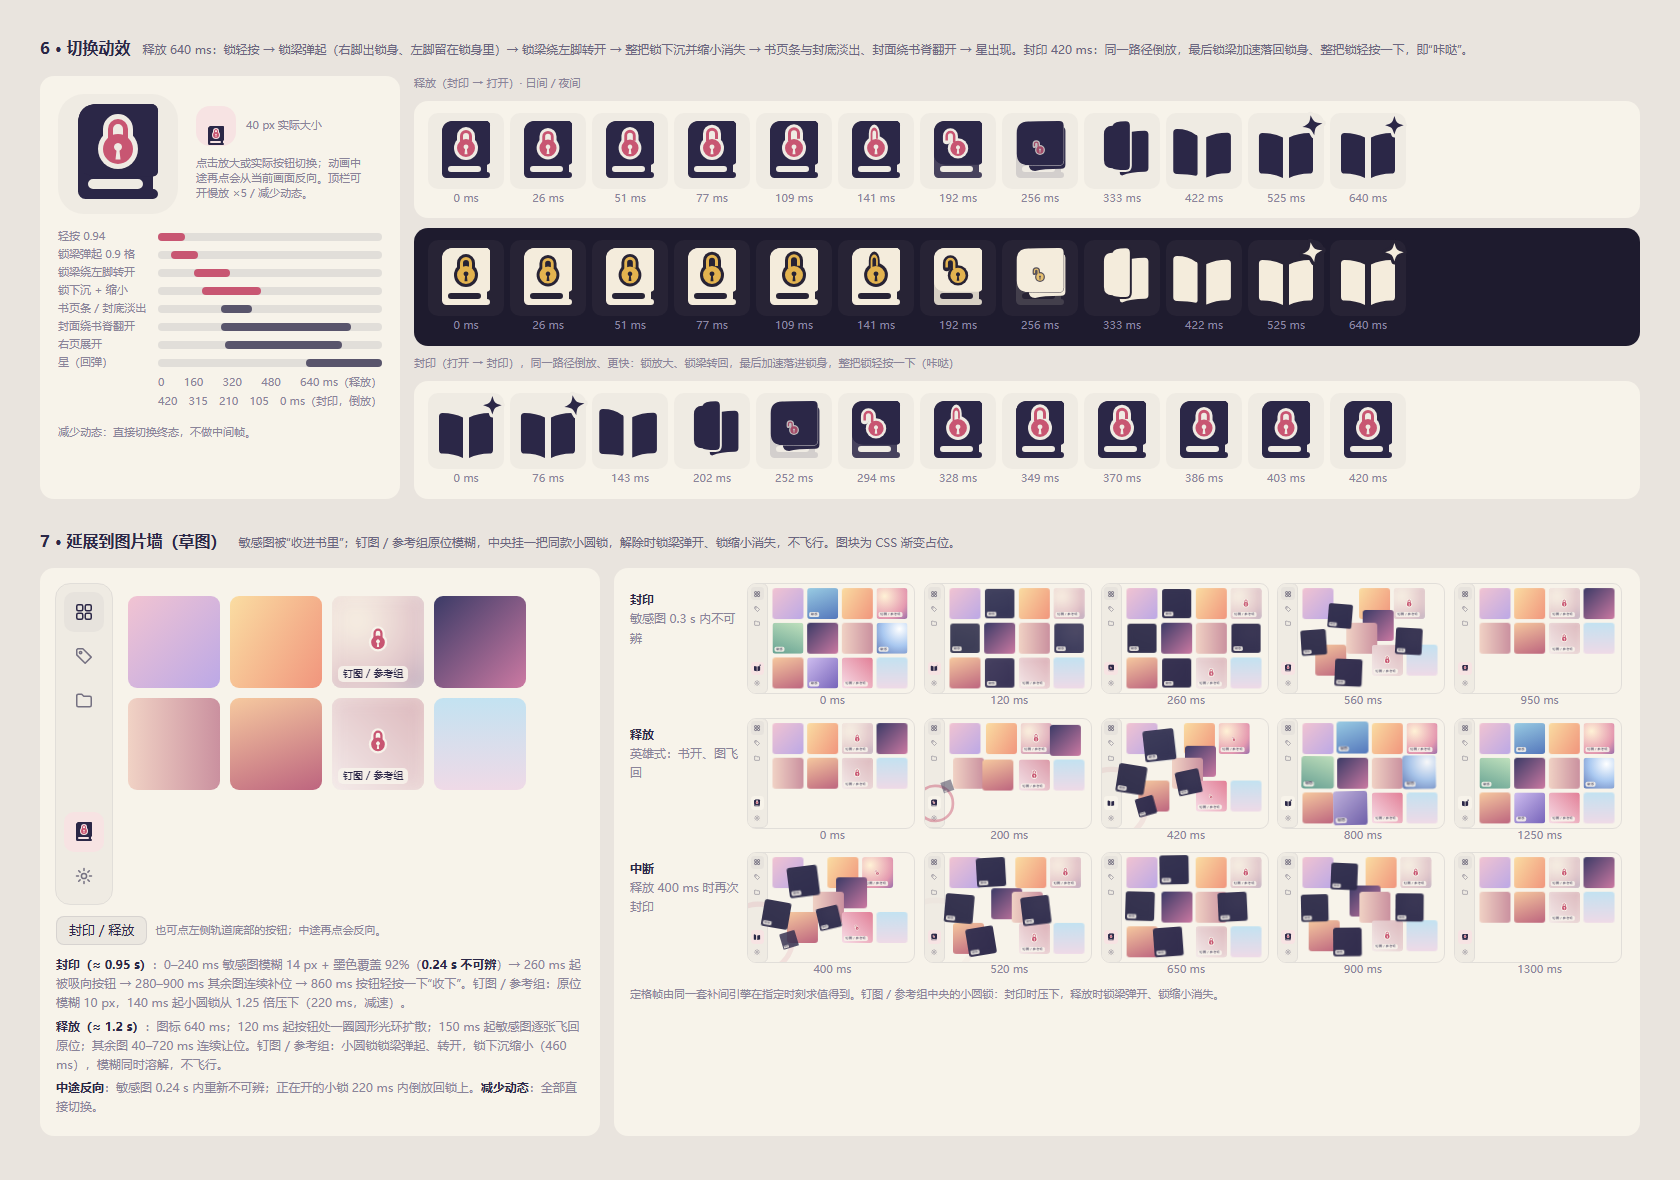
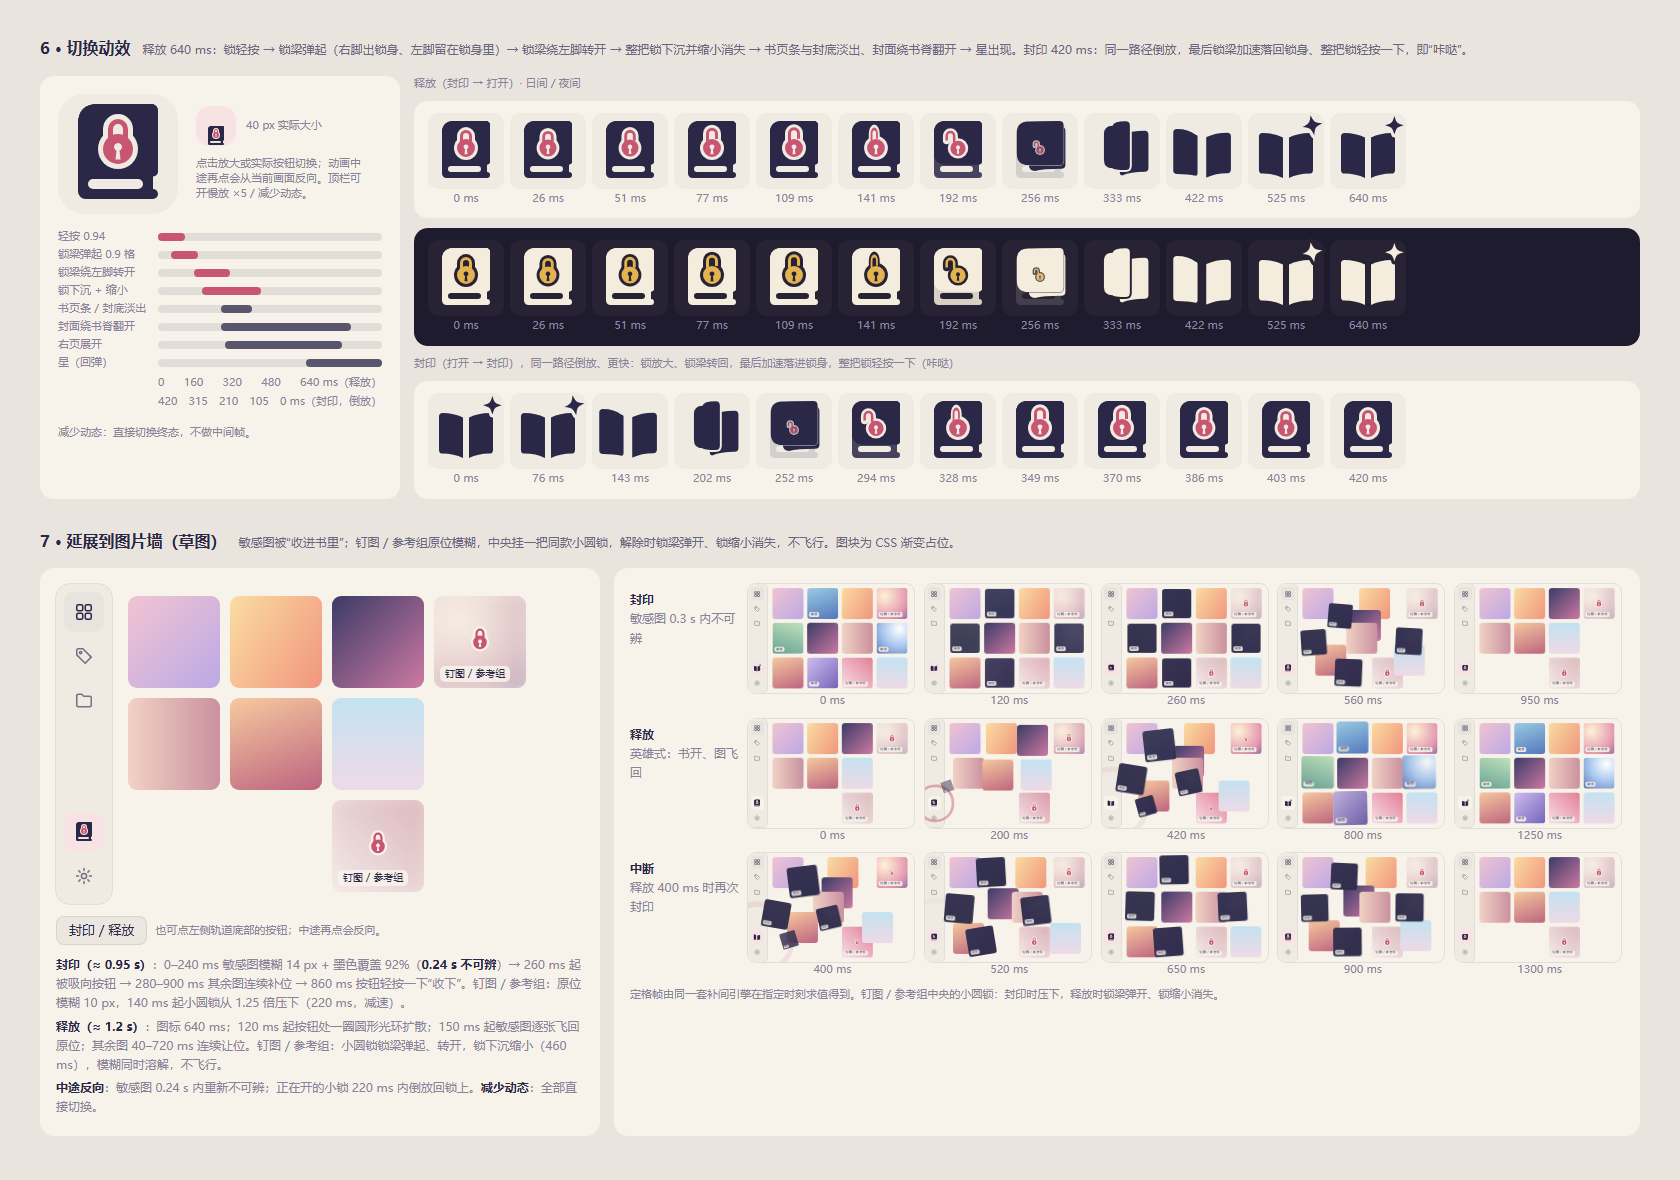
design: keep pinned tiles in place and settle on reduced motion
Address review on #29: pin / reference-group tiles keep their own slot
while the wall reflows around them, and enabling reduced motion
mid-animation jumps the control and every wall tween to the target.

diff --git a/design/seal-book-concepts/round5-a1-round-lock/index.html b/design/seal-book-concepts/round5-a1-round-lock/index.html
@@ -622,6 +622,9 @@ const GRADS = [
 const KINDS = 'nsnrsnnsnsrn'.split('');
 const T = 92, GAP = 10, OX = 72, OY = 12, H = 320, BTN = { x: 28, y: H - 28 - 44 };
 const slot = i => ({ x: OX + (i % 4) * (T + GAP), y: OY + Math.floor(i / 4) * (T + GAP) });
+// pinned / reference-group tiles keep their own slot (blur in place, never move); other tiles reflow around them
+const slotIndex = sealed => { const free = KINDS.map((k, i) => i).filter(i => KINDS[i] !== 'r'); let j = 0;
+  return KINDS.map((k, i) => k === 'r' ? i : (sealed && k === 's') ? null : free[j++]); };
 class Tw {
   constructor() { this.m = new Map(); }
   get(k, t, d) { const w = this.m.get(k); return w ? w(t) : d; }
@@ -660,8 +663,8 @@ class Wall {
     this.tw.set('burst', t, 0); this.pulseAt = -1;
   }
   layout(t, instant, delay = 0, dur = 650) {
-    let j = 0;
-    this.tiles.forEach((el, i) => { if (this.sealed && KINDS[i] === 's') return; const s = slot(j++);
+    const idx = slotIndex(this.sealed);
+    this.tiles.forEach((el, i) => { if (idx[i] === null) return; const s = slot(idx[i]);
       if (instant) { this.tw.set(i + 'x', t, s.x); this.tw.set(i + 'y', t, s.y); }
       else { this.tw.to(i + 'x', t, s.x, delay, dur, E.inOutC, s.x); this.tw.to(i + 'y', t, s.y, delay, dur, E.inOutC, s.y); } });
   }
@@ -671,7 +674,8 @@ class Wall {
     if (sealed) {
       this.tiles.forEach((el, i) => { const kind = KINDS[i];
         if (kind === 's') {
-          if (R) { tw.set(i + 'op', t, 0); tw.set(i + 'x', t, BTN.x - T / 2); tw.set(i + 'y', t, BTN.y - T / 2); return; }
+          if (R) { tw.set(i + 'op', t, 0); tw.set(i + 'x', t, BTN.x - T / 2); tw.set(i + 'y', t, BTN.y - T / 2);
+            tw.set(i + 's', t, .1); tw.set(i + 'rot', t, 0); tw.set(i + 'blur', t, 14); tw.set(i + 'wash', t, .92); return; }
           tw.to(i + 'blur', t, 14, 0, 240, E.outC); tw.to(i + 'wash', t, .92, 0, 220, E.outC); tw.to(i + 's', t, .94, 0, 220, E.outC);
           const d = 260 + k * 30; k++;
           tw.to(i + 'x', t, BTN.x - T / 2, d, 520, E.inC); tw.to(i + 'y', t, BTN.y - T / 2, d, 520, E.inC);
@@ -709,7 +713,14 @@ class Wall {
       if (!R) { tw.set('burst', t, 0); tw.to('burst', t, 1, 120, 620, E.outC); }
     }
   }
-  _slotOf(i) { let j = 0; for (let q = 0; q < i; q++) if (!(this.sealed && KINDS[q] === 's')) j++; return slot(j); }
+  _slotOf(i) { return slot(slotIndex(this.sealed)[i]); }
+  // reduced motion switched on mid-animation: jump every tween to the current target state
+  settle(t) {
+    this.toggle(this.sealed, t);
+    this.tiles.forEach((el, i) => { if (KINDS[i] === 's') this.tw.set(i + 'op', t, this.sealed ? 0 : 1);
+      if (KINDS[i] === 'r') this.tw.set(i + 'crack', t, 0); });
+    this.tw.set('burst', t, 0); this.pulseAt = -1;
+  }
   render(t) {
     const tw = this.tw;
     this.tiles.forEach((el, i) => {
@@ -753,7 +764,8 @@ document.querySelectorAll('[data-snap]').forEach(h => {
 document.querySelectorAll('.rb.live, .bigbtn').forEach(b => bindButton(b));
 document.getElementById('all').addEventListener('click', () => { document.querySelectorAll('.rb.live, .bigbtn').forEach(b => b.click()); liveWall.btn.click(); });
 document.getElementById('slow').addEventListener('change', e => SLOW = e.target.checked ? 5 : 1);
-document.getElementById('rm').addEventListener('change', e => REDUCED = e.target.checked);
+document.getElementById('rm').addEventListener('change', e => { REDUCED = e.target.checked;
+  if (REDUCED) { ctls.forEach(c => c.set(c.sealed, CLOCK)); liveWall.settle(CLOCK); } });
 document.getElementById('old').addEventListener('change', e => document.body.classList.toggle('old', e.target.checked));
 let last = performance.now();
 function loop(now) { CLOCK += (now - last) / SLOW; last = now; ctls.forEach(c => c.draw(CLOCK)); liveWall.render(CLOCK); requestAnimationFrame(loop); }
